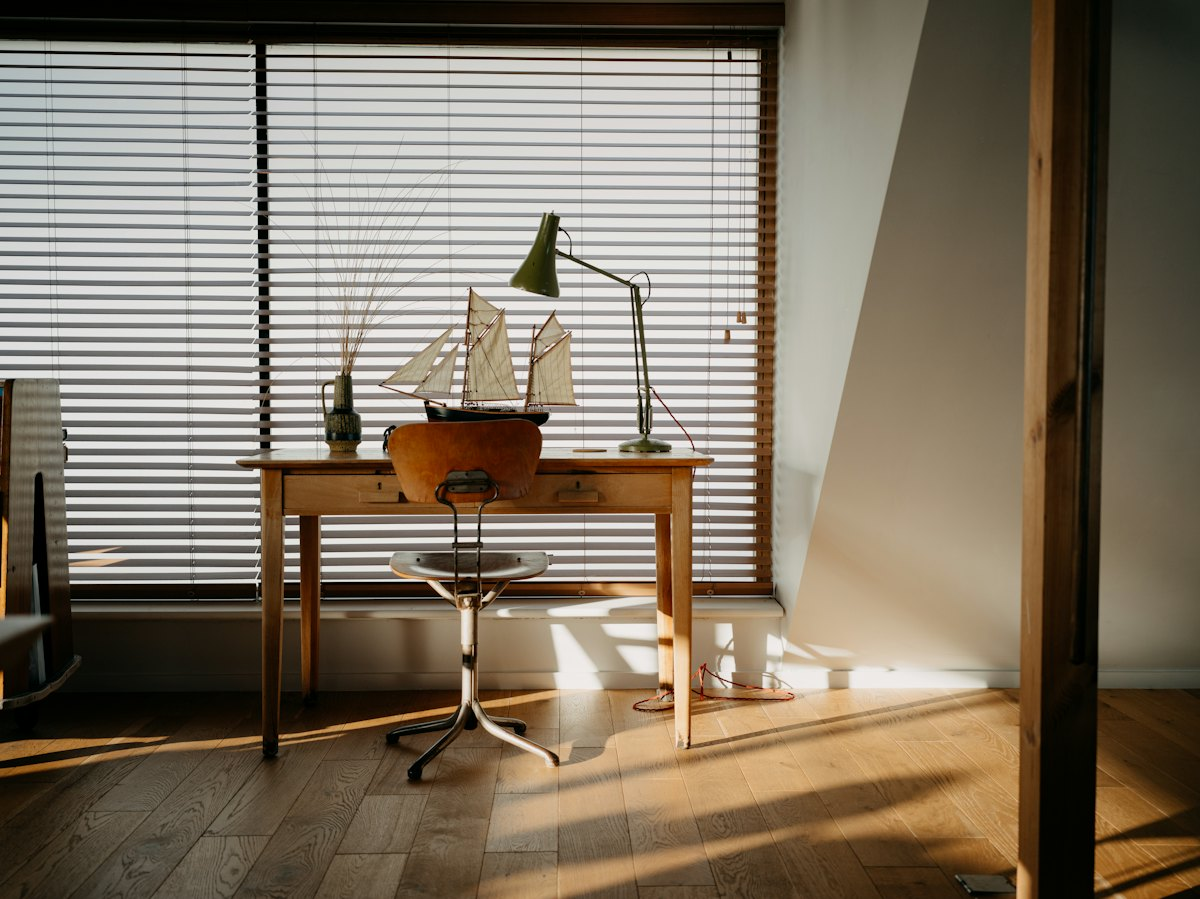
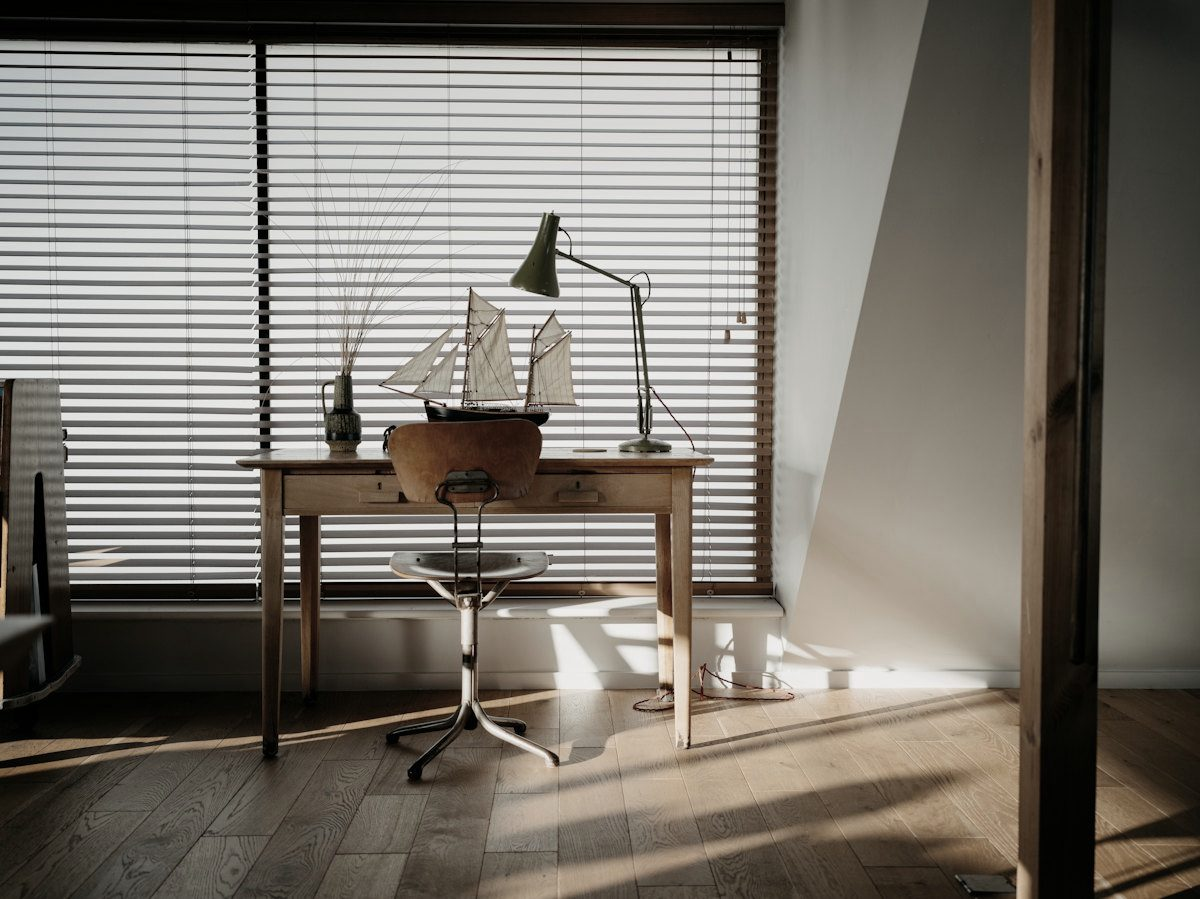
Pre-desaturate cover photo instead of filtering at runtime
Baking saturation into the image file drops the per-frame filter on the
fixed cover; dark mode now darkens via the overlay gradient rather than a
brightness filter. Adds will-change: transform.

diff --git a/assets/css/redesign/calm.css b/assets/css/redesign/calm.css
@@ -28,10 +28,10 @@
 
 /* the photo stays put; everything else scrolls over it */
 .rd-stage { position: fixed; inset: 0; z-index: 0; overflow: hidden; }
-.rd-stage img { position: absolute; inset: -4%; width: 108%; height: 108%; max-width: none; object-fit: cover; animation: rd-kb 34s ease-in-out infinite alternate; filter: saturate(.45); }
+.rd-stage img { position: absolute; inset: -4%; width: 108%; height: 108%; max-width: none; object-fit: cover; animation: rd-kb 34s ease-in-out infinite alternate; will-change: transform; } /* photo file is pre-desaturated */
 .rd-stage::after { content: ""; position: absolute; inset: 0; background: radial-gradient(ellipse at 50% 42%, rgb(0 0 0 / .34), rgb(0 0 0 / .58)); }
-:root[data-theme="dark"] .rd-stage img { filter: saturate(.45) brightness(.72); }
-@media (prefers-color-scheme: dark) { :root:not([data-theme="light"]) .rd-stage img { filter: saturate(.45) brightness(.72); } }
+:root[data-theme="dark"] .rd-stage::after { background: radial-gradient(ellipse at 50% 42%, rgb(0 0 0 / .52), rgb(0 0 0 / .7)); }
+@media (prefers-color-scheme: dark) { :root:not([data-theme="light"]) .rd-stage::after { background: radial-gradient(ellipse at 50% 42%, rgb(0 0 0 / .52), rgb(0 0 0 / .7)); } }
 
 .rd-header--overlay { position: fixed; top: 0; left: 0; right: 0; z-index: 20; padding: 14px 26px; padding-top: calc(14px + env(safe-area-inset-top, 0px)); color: #fff; transition: background-color .4s, color .4s, box-shadow .4s; }
 .rd-header--overlay .rd-logo { font-size: 18px; }
